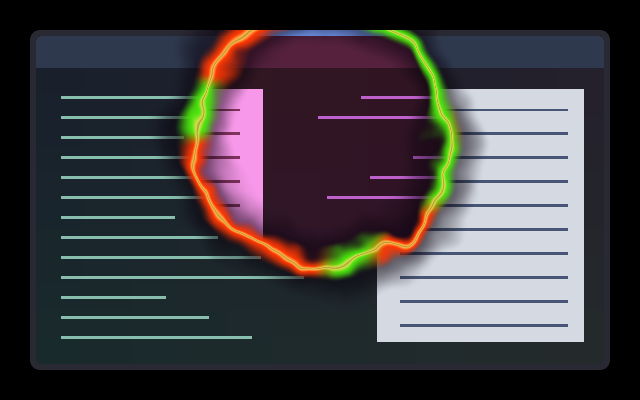
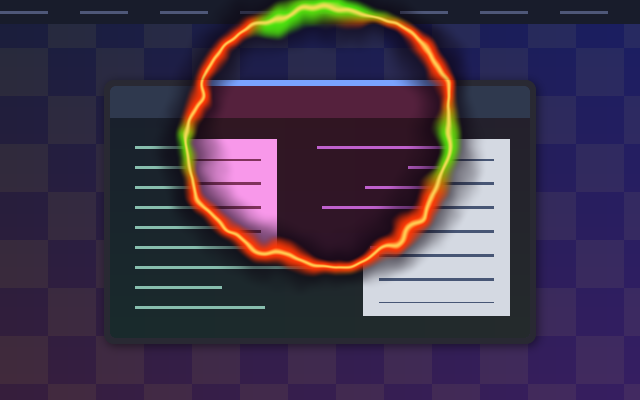
Adapt Witching Hour to full-scene workspace reveals

diff --git a/animation/witching-hour/README.md b/animation/witching-hour/README.md
@@ -1,7 +1,8 @@
 # Witching Hour
 
-A ragged portal burns through the outgoing workspace, revealing the next one
-in place. Pumpkin-orange fire, yellow-hot edges, patches of witch-green flame
+A ragged portal burns through the entire outgoing scene, revealing the next one
+in place, including wallpaper, windows, decorations and shell surfaces.
+Pumpkin-orange fire, yellow-hot edges, patches of witch-green flame
 and a violet smoky halo travel outward from an off-centre ignition point.
 The ignition point follows the workspace navigation axis and direction.
 
@@ -10,9 +11,11 @@ The ignition point follows the workspace navigation axis and direction.
 [Watch the animated workspace switch](preview.gif) at the configured 1100 ms speed.
 
 The previews are real headless compositor captures of two populated workspaces
-over synthetic content.
-Shared wallpaper and panels keep their normal stacking; the fire shades the
-participating workspace content and preserves transparent margins.
+with synthetic wallpaper and a panel. One shader blends the two complete scenes,
+so the flame edge continues across windows, wallpaper and shell surfaces.
+The cursor and output postprocessing remain after the transition. When both
+workspaces share a wallpaper, the image stays the same on either side of the
+portal, but the fire and smoke still travel across it.
 
 ## Use
 
@@ -61,19 +64,19 @@ Restore `style = "slide"` and clear `effect = ""` to return to native sliding.
 ## Compatibility and cost
 
 Requires the new [workspace reveal API](https://github.com/noctalia-dev/umbriel/blob/main/docs/user/animation.md#workspace-reveal),
-including `umbriel_workspace_rect` and `umbriel_workspace_axis`. The original
-preset-effects API alone is insufficient. Tested with **Umbriel 0.1.0
-(`d083f24`)**. The two workspace roots use the same output-space mask with
-complementary coverage; exact endpoints return the untouched visible workspace
-and transparent black for the hidden workspace.
+including `umbriel_sample_incoming` and `umbriel_workspace_axis`. Tested with
+**Umbriel 0.1.0 (`2145668`)**. Older builds that reveal individual workspace
+trees are incompatible. Output-wide UVs address both scene textures; exact
+endpoints return the outgoing scene at zero and the incoming scene at one.
 
-One source texture sample and four bounded procedural-noise evaluations per
+Two scene texture samples and four bounded procedural-noise evaluations per
 fragment; no previous-frame feedback or texture assets. Reveal rendering also
 has compositor capture costs. Hardware performance and HDR are not benchmarked.
 
 Validation includes GLES endpoint, alpha and four-axis checks, plus headless
-switches in both directions and swipe cancellation. See the
-[validation record](../../VALIDATION.md#witching-hour-workspace-reveal-2026-10-09).
+empty-to-empty switches, populated scenes with wallpaper and a panel, both
+switch directions and swipe cancellation. See the
+[validation record](../../VALIDATION.md#witching-hour-full-scene-reveal-2026-10-10).
 
 ## Attribution
 

diff --git a/VALIDATION.md b/VALIDATION.md
@@ -2,6 +2,35 @@
 
 The initial collection was checked on 2026-09-27.
 
+## Witching Hour full-scene reveal (2026-10-10)
+
+Updated the shader for Umbriel `0.1.0 (2145668)`: it samples both the outgoing
+scene and `umbriel_sample_incoming`, blends once at output coordinates, and
+returns the final scene pixel. Removed the obsolete workspace-root rectangle,
+entering/leaving masks and transparent endpoint behavior. The 1100 ms selection
+and Halloween artwork are unchanged. Earlier root-based builds are incompatible.
+
+- Compiles and renders in the installed compositor. Fresh still and animated
+  previews include a synthetic wallpaper, panel and two populated workspaces.
+- An empty-to-empty switch visibly burns across wallpaper and the panel;
+  its intermediate frame differs from rest at 66,559 pixels. The completed
+  frame is pixel-identical to the resting scene.
+- Both populated switch directions finish pixel-identically to their destination
+  captures, and a cancelled swipe restores the original scene pixel for pixel.
+- 1,920 software-GLES frames using the installed revision's host declarations
+  pass exact outgoing/incoming endpoint, clamped overshoot, premultiplied-alpha,
+  four-axis, wide/tall size, two-seed, scale 1/1.5 and reversed-progress checks.
+  The two input textures have different colours and include equal and unequal
+  alpha; transparent input stays transparent and opaque input stays opaque.
+- All 99 installation examples and the combined library pass configuration
+  validation in this checkout.
+
+Still previews and representative compositor frames were visually inspected.
+Native rotated/fractional-scale output composition, HDR and hardware performance
+remain unverified. The 2026-10-09 entry below describes the superseded shader.
+
+
+
 ## Pond Wake and Starlight publication (2026-10-09)
 
 Both cursor presets compile and render in private headless sessions with

diff --git a/animation/README.md b/animation/README.md
@@ -29,4 +29,4 @@
 | <img src="workspace-transation-vhs-ripple/preview.png" width="160" alt="Workspace VHS Ripple preview"> | [workspace-transation-vhs-ripple](workspace-transation-vhs-ripple/) | Strong VHS tracking distortion and ripples over the native workspace slide. |
 | <img src="kzzzt-open/preview.png" width="160" alt="kzzzt-open preview"> | [kzzzt-open](kzzzt-open/) | Opening strikes the window into being with one overexposed, torn frame, then it stutters in through displaced bands and phosphor bloom while circuit traces flare at its edges and settle. |
 | <img src="kzzzt-close/preview.png" width="160" alt="kzzzt-close preview"> | [kzzzt-close](kzzzt-close/) | Closing overdrives the window’s own colours into phosphor and tears it into bands, then blows it out like a fuse, with one overexposed pop and a short fading afterglow. |
-| <img src="witching-hour/preview.png" width="160" alt="Witching Hour workspace reveal"> | [witching-hour](witching-hour/) | A ragged orange-and-green fire portal reveals the next workspace in place. Requires workspace `style = "reveal"`. |
+| <img src="witching-hour/preview.png" width="160" alt="Witching Hour workspace reveal"> | [witching-hour](witching-hour/) | A ragged orange-and-green fire portal reveals the entire next scene, including wallpaper and shell surfaces. Requires the full-scene workspace reveal API. |
